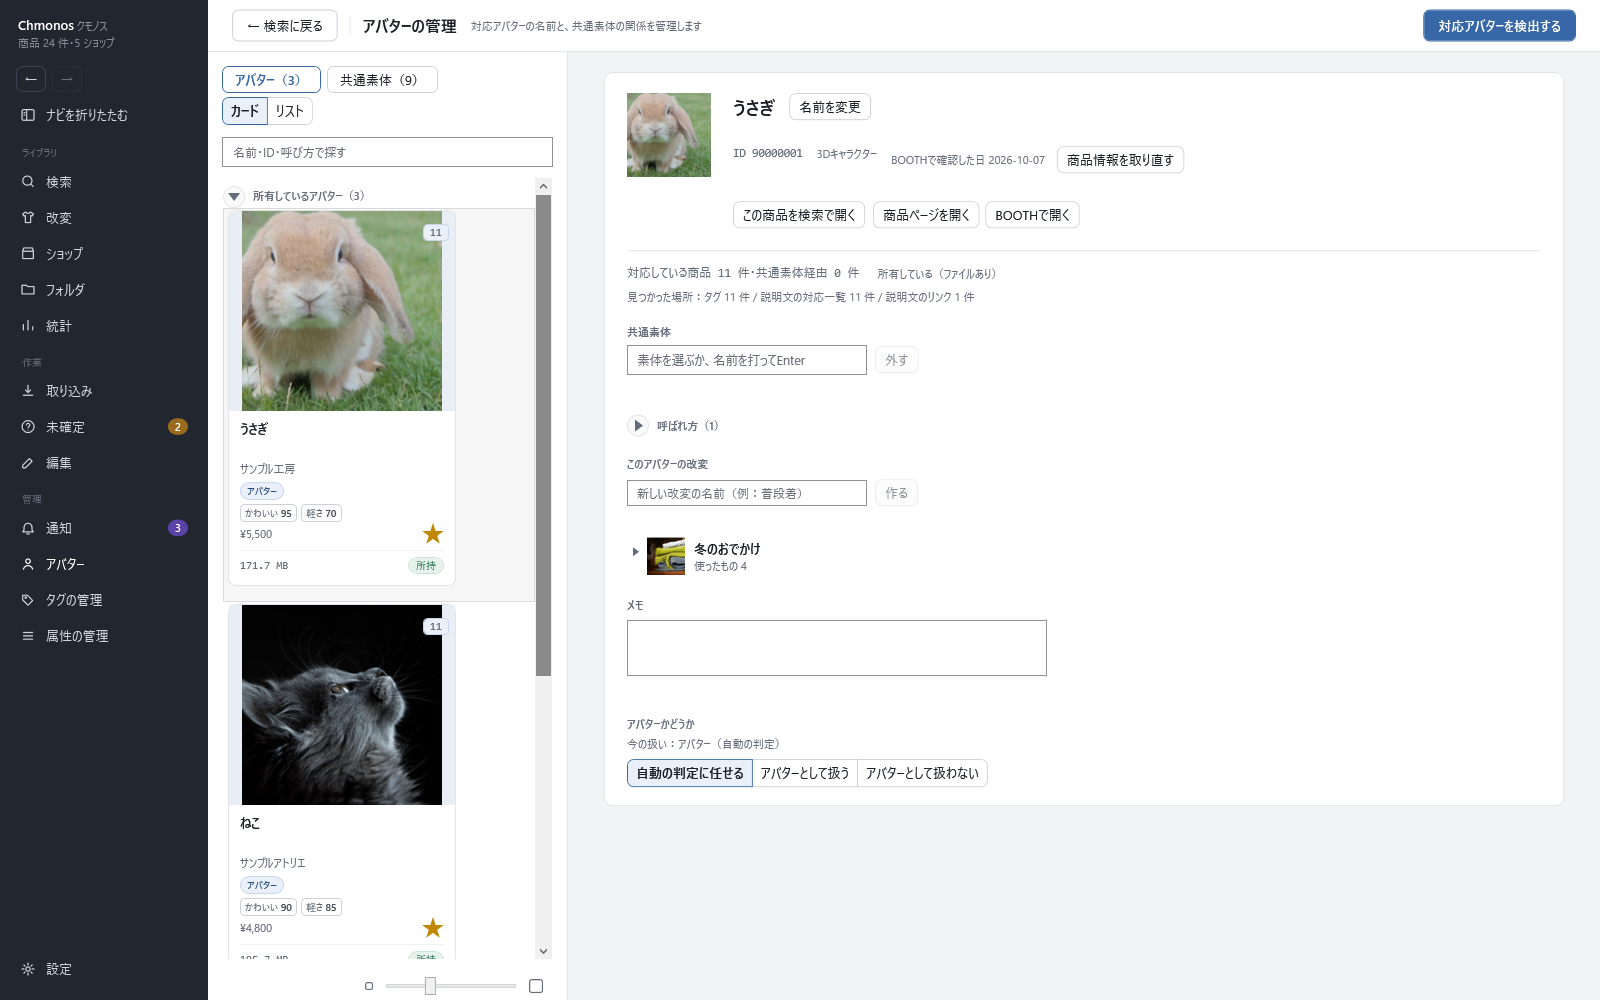
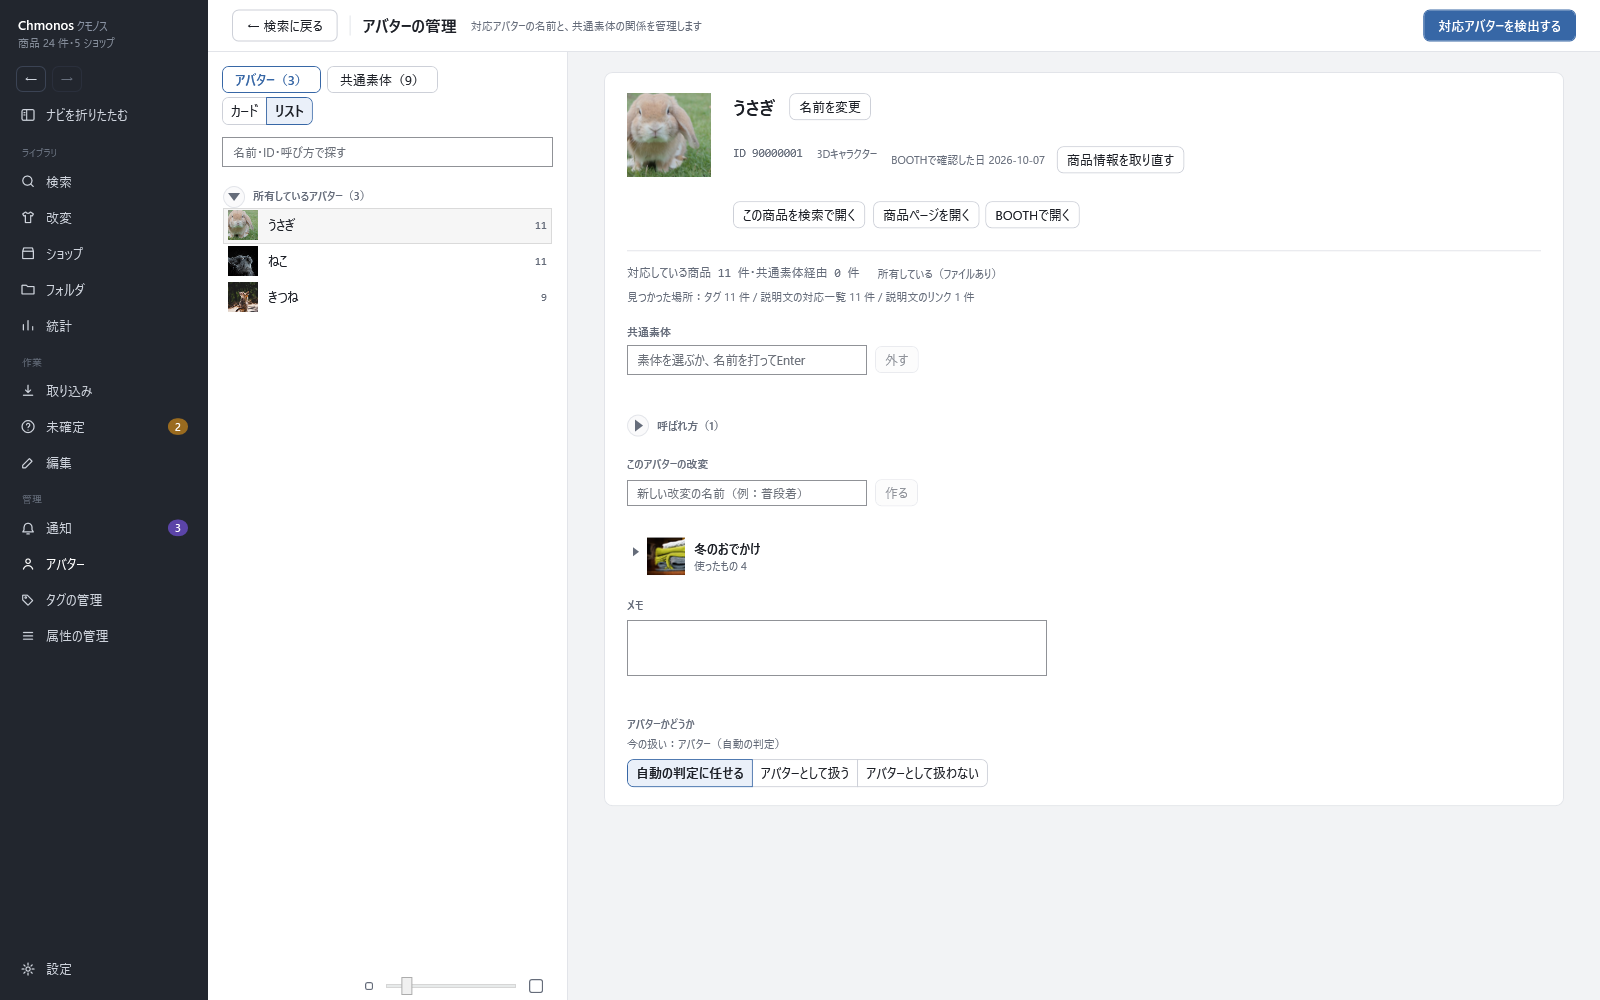
マニュアル：アバターの画面の画像をリスト表示で撮り直し、既定がリストと書く
Claude-Session: https://claude.ai/code/session_01AkRTW1DqfnpfUugY7WfGVB

diff --git a/manual/17-avatars.md b/manual/17-avatars.md
@@ -19,10 +19,10 @@
 | 部品 | すること |
 |---|---|
 | アバター・共通素体 | アバターの一覧と、共通素体の一覧を切り替える |
-| カード・リスト | 見せ方の切り替え |
+| カード・リスト | 見せ方の切り替え（既定はリスト） |
 | 上の欄 | 名前・ID・呼び方で探す |
 
-アバターは「所有しているアバター」（手元にファイルがあるアバター）と、所有していないアバターに分かれて並びます。ファイルを持っていなくても、「所有しているものとして扱う」で所有に入れられます（「所有の指定を外す」で戻します）。カードの右上の数は、そのアバターに対応している商品の数です。
+アバターは「所有しているアバター」（手元にファイルがあるアバター）と、所有していないアバターに分かれて並びます。ファイルを持っていなくても、「所有しているものとして扱う」で所有に入れられます（「所有の指定を外す」で戻します）。行の右の数（カードでは右上の数）は、そのアバターに対応している商品の数です。
 
 ## 右：アバターを選んだとき
 
